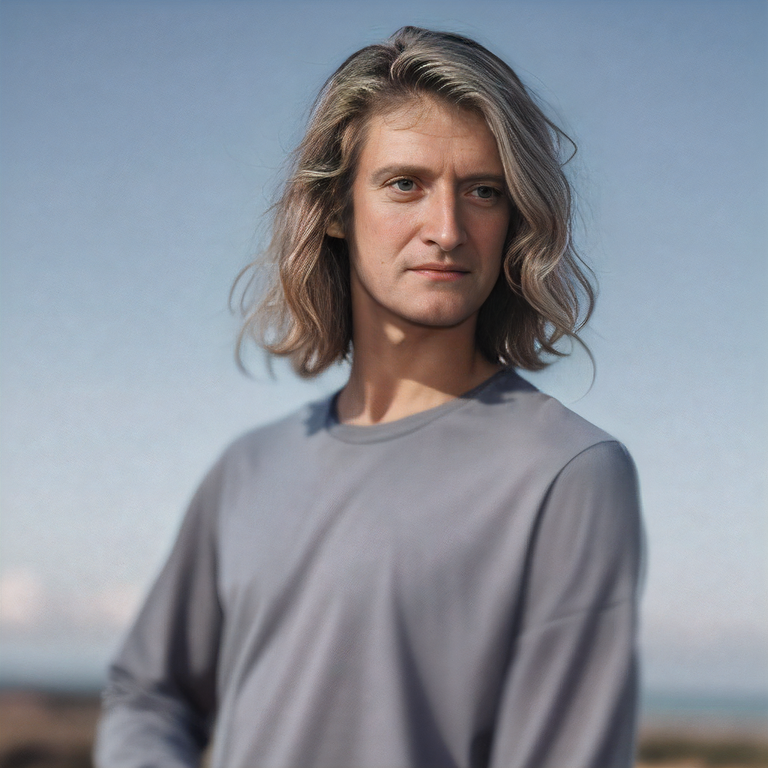
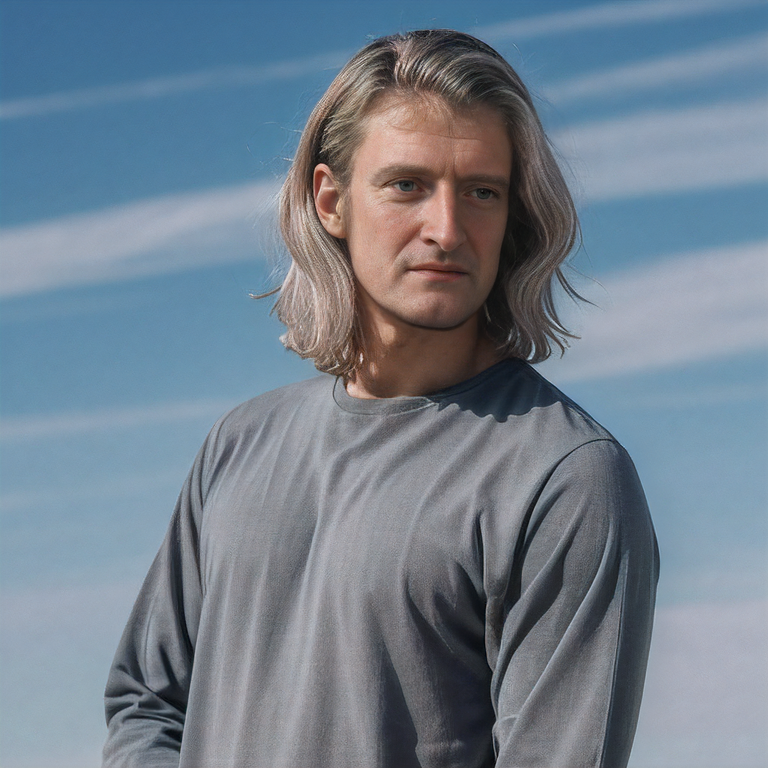
euclid and cantor

diff --git a/Projects/Mathematicians_Reimagined/index.html b/Projects/Mathematicians_Reimagined/index.html
@@ -120,7 +120,29 @@
 
         </div>
 
+        <!-- EUCLID ROW -->
+        <div class="project-box">
 
+            <div class="image-row" style="background-color: black; display: flex;">
+
+                <div class="column" style="flex: 1; overflow: hidden;">
+                    <img src="/Projects/Mathematicians_Reimagined/euclid.webp"
+                        style="width: 100%; height: 100%; object-fit: cover;">
+                </div>
+
+                <div class="column" style="flex: 1; overflow: hidden;">
+                    <img src="/Projects/Mathematicians_Reimagined/euclid_reimagined.png"
+                        style="width: 100%; height: 100%; object-fit: cover;">
+                </div>
+
+            </div>
+
+
+            <p class="project-box-caption">
+                Euclid (Sometime in ~350-200BC) reimagined.
+            </p>
+
+        </div>
 
         <!-- DESCARTES ROW -->
         <div class="project-box">
@@ -145,6 +167,8 @@
             </p>
 
         </div>
+
+
 
 
 
@@ -300,6 +324,30 @@
         </div>
 
 
+        <!-- Cantor ROW -->
+        <div class="project-box">
+
+            <div class="image-row" style="background-color: black; display: flex;">
+
+                <div class="column" style="flex: 1; overflow: hidden;">
+                    <img src="/Projects/Mathematicians_Reimagined/cantor.jpg"
+                        style="width: 100%; height: 100%; object-fit: cover;">
+                </div>
+
+                <div class="column" style="flex: 1; overflow: hidden;">
+                    <img src="/Projects/Mathematicians_Reimagined/cantor_reimagined.png"
+                        style="width: 100%; height: 100%; object-fit: cover;">
+                </div>
+
+            </div>
+
+
+            <p class="project-box-caption">
+                Georg Cantor (1845-1918) reimagined.
+            </p>
+
+        </div>
+
         <!-- POINCARE ROW -->
         <div class="project-box">
 
@@ -319,7 +367,7 @@
 
 
             <p class="project-box-caption">
-                Henri Poincaré (1854-1912) reimagined in a modern look. He became a bit of a
+                Henri Poincaré (1854-1912) reimagined. He became a bit of a
                 hipster.
             </p>
 

diff --git a/index.html b/index.html
@@ -191,7 +191,7 @@
                 <div class="column-text">
 
                     <p class="publication-title">
-                        Dissertation:<br> The Solar Corona: Modeled, Discretized, Visualized
+                        Dissertation —<br> The Solar Corona: Modeled, Discretized, Visualized
                     </p>
 
                     <div class="publication-authors">
